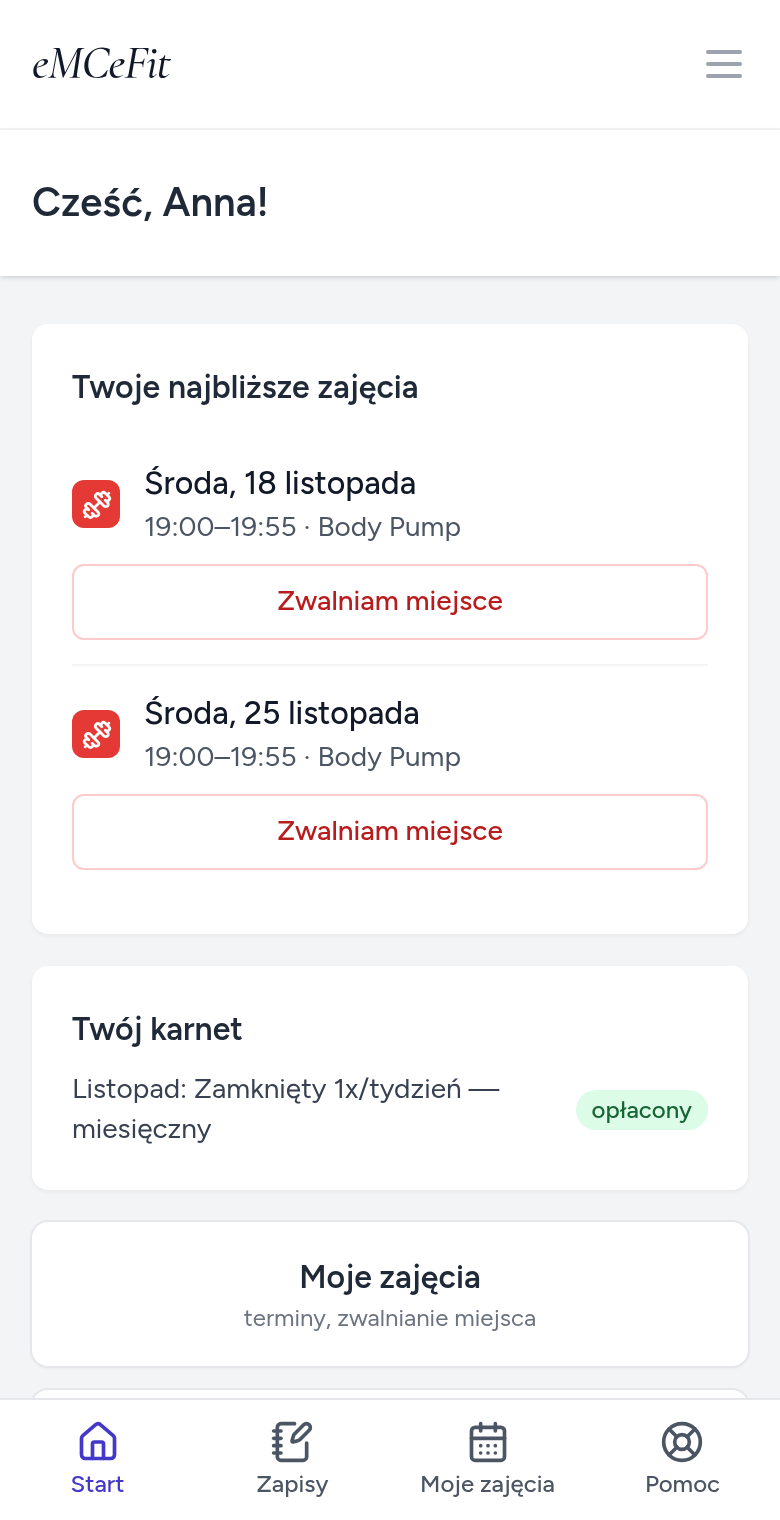
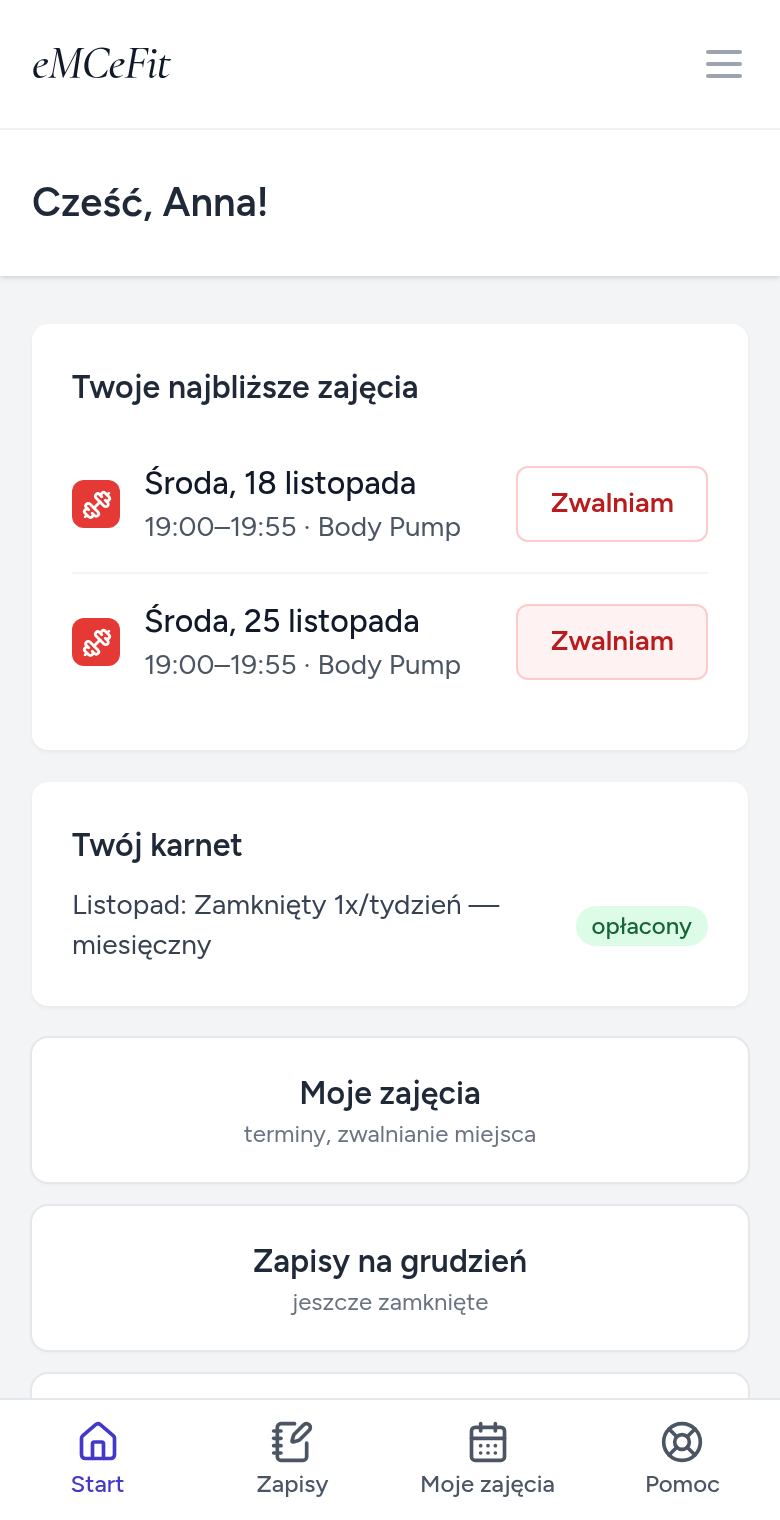
Przycisk „Zwalniam” w jednej linii z zajęciami (Start i Moje zajęcia)

diff --git a/resources/js/Pages/Client/MyClasses.vue b/resources/js/Pages/Client/MyClasses.vue
@@ -30,7 +30,7 @@ const changeMonth = (value) => {
     router.get(route('client.classes.index', { month: value }), {}, { preserveScroll: true });
 };
 
-const { isLateMakeup, releaseLabel, cancelReservation, leaveWaitlist } = useReleaseReservation();
+const { isLateMakeup, releaseButtonClass, releaseLabel, cancelReservation, leaveWaitlist } = useReleaseReservation();
 
 const kindLabel = { odrobienie: 'odrabiasz', otwarty: 'z karnetu otwartego' };
 
@@ -201,8 +201,11 @@ const reservationBadge = {
                                         </div>
                                         <div v-if="res.makeup_for && res.status !== 'zwolnione'" class="text-xs text-indigo-700">odrabiasz za: {{ res.makeup_for }}</div>
                                         <div v-if="res.release_note" class="text-xs text-gray-500">{{ res.release_note }}</div>
+                                        <div v-if="res.leavable" class="text-xs text-blue-700">jesteś na liście oczekujących</div>
+                                        <div v-if="res.cancellable && isLateMakeup(res)" class="text-xs text-amber-700">mniej niż godzina do zajęć — po zwolnieniu odrobienie przepada</div>
                                     </div>
                                     <span
+                                        v-if="!res.cancellable && !res.leavable"
                                         class="shrink-0 rounded-full px-2 py-0.5 text-xs font-medium"
                                         :class="res.is_past
                                             ? 'bg-gray-100 text-gray-500'
@@ -210,26 +213,24 @@ const reservationBadge = {
                                     >
                                         {{ res.is_past && res.status === 'potwierdzona' ? 'odbyte' : res.status_label }}
                                     </span>
+                                    <button
+                                        v-if="res.cancellable"
+                                        type="button"
+                                        class="shrink-0 rounded-md border px-4 py-2 text-sm font-semibold"
+                                        :class="releaseButtonClass(res)"
+                                        @click="cancelReservation(res)"
+                                    >
+                                        {{ releaseLabel(res) }}
+                                    </button>
+                                    <button
+                                        v-else-if="res.leavable"
+                                        type="button"
+                                        class="shrink-0 rounded-md border border-gray-300 px-4 py-2 text-sm font-semibold text-gray-700 hover:bg-gray-50"
+                                        @click="leaveWaitlist(res)"
+                                    >
+                                        Wypisz się
+                                    </button>
                                 </div>
-                                <button
-                                    v-if="res.cancellable"
-                                    type="button"
-                                    class="mt-2 w-full rounded-md border py-2 text-sm font-medium"
-                                    :class="isLateMakeup(res)
-                                        ? 'border-amber-300 bg-amber-50 text-amber-800 hover:bg-amber-100'
-                                        : 'border-red-200 text-red-700 hover:bg-red-50'"
-                                    @click="cancelReservation(res)"
-                                >
-                                    {{ releaseLabel(res) }}
-                                </button>
-                                <button
-                                    v-if="res.leavable"
-                                    type="button"
-                                    class="mt-2 w-full rounded-md border border-gray-300 py-2 text-sm font-medium text-gray-700 hover:bg-gray-50"
-                                    @click="leaveWaitlist(res)"
-                                >
-                                    Wypisz mnie z listy oczekujących
-                                </button>
                             </li>
                         </ul>
                     </section>

diff --git a/resources/js/Pages/Client/Dashboard.vue b/resources/js/Pages/Client/Dashboard.vue
@@ -13,7 +13,7 @@ defineProps({
     openRemaining: { type: Number, default: 0 },
 });
 
-const { isLateMakeup, releaseLabel, cancelReservation, leaveWaitlist } = useReleaseReservation();
+const { isLateMakeup, releaseButtonClass, releaseLabel, cancelReservation, leaveWaitlist } = useReleaseReservation();
 
 const statusBadge = {
     potwierdzona: 'bg-green-100 text-green-800',
@@ -71,34 +71,34 @@ const statusBadge = {
                                     <div v-if="res.makeup_for" class="text-xs text-indigo-700">
                                         odrabiasz za: {{ res.makeup_for }}
                                     </div>
+                                    <div v-if="res.leavable" class="text-xs text-blue-700">jesteś na liście oczekujących</div>
+                                    <div v-if="res.cancellable && isLateMakeup(res)" class="text-xs text-amber-700">mniej niż godzina do zajęć — po zwolnieniu odrobienie przepada</div>
                                 </div>
                                 <span
-                                    v-if="res.status !== 'potwierdzona'"
+                                    v-if="res.status !== 'potwierdzona' && !res.leavable"
                                     class="shrink-0 rounded-full px-2 py-0.5 text-xs font-medium"
                                     :class="statusBadge[res.status]"
                                 >
                                     {{ res.status_label }}
                                 </span>
+                                <button
+                                    v-if="res.cancellable"
+                                    type="button"
+                                    class="shrink-0 rounded-md border px-4 py-2 text-sm font-semibold"
+                                    :class="releaseButtonClass(res)"
+                                    @click="cancelReservation(res)"
+                                >
+                                    {{ releaseLabel(res) }}
+                                </button>
+                                <button
+                                    v-else-if="res.leavable"
+                                    type="button"
+                                    class="shrink-0 rounded-md border border-gray-300 px-4 py-2 text-sm font-semibold text-gray-700 hover:bg-gray-50"
+                                    @click="leaveWaitlist(res)"
+                                >
+                                    Wypisz się
+                                </button>
                             </div>
-                            <button
-                                v-if="res.cancellable"
-                                type="button"
-                                class="mt-2 w-full rounded-md border py-2 text-sm font-medium"
-                                :class="isLateMakeup(res)
-                                    ? 'border-amber-300 bg-amber-50 text-amber-800 hover:bg-amber-100'
-                                    : 'border-red-200 text-red-700 hover:bg-red-50'"
-                                @click="cancelReservation(res)"
-                            >
-                                {{ releaseLabel(res) }}
-                            </button>
-                            <button
-                                v-if="res.leavable"
-                                type="button"
-                                class="mt-2 w-full rounded-md border border-gray-300 py-2 text-sm font-medium text-gray-700 hover:bg-gray-50"
-                                @click="leaveWaitlist(res)"
-                            >
-                                Wypisz mnie z listy oczekujących
-                            </button>
                         </li>
                     </ul>
                     <p v-else class="mt-2 text-sm text-gray-500">Nie masz zaplanowanych zajęć.</p>

diff --git a/resources/js/Pages/HowItWorks.vue b/resources/js/Pages/HowItWorks.vue
@@ -18,7 +18,7 @@ const steps = [
     },
     {
         title: 'Twój panel',
-        text: 'Na początku widzisz najbliższe zajęcia i swój karnet. Pod każdymi zajęciami jest przycisk „Zwalniam miejsce”. Na dole ekranu masz menu: Start, Zapisy, Moje zajęcia i Pomoc.',
+        text: 'Na początku widzisz najbliższe zajęcia i swój karnet. Przy każdych zajęciach jest przycisk „Zwalniam”. Na dole ekranu masz menu: Start, Zapisy, Moje zajęcia i Pomoc.',
         img: '3-panel.png',
     },
     {
@@ -33,7 +33,7 @@ const steps = [
     },
     {
         title: 'Nie możesz przyjść?',
-        text: 'Kliknij „Zwalniam miejsce” na ekranie startowym albo w „Moich zajęciach”. Jeśli zrobisz to co najmniej godzinę przed zajęciami, możesz je odrobić w tym samym miesiącu.',
+        text: 'Kliknij „Zwalniam” na ekranie startowym albo w „Moich zajęciach”. Jeśli zrobisz to co najmniej godzinę przed zajęciami, możesz je odrobić w tym samym miesiącu.',
         img: '6-moje-zajecia.png',
     },
     {

diff --git a/resources/js/Utils/releaseReservation.js b/resources/js/Utils/releaseReservation.js
@@ -21,7 +21,12 @@ export function useReleaseReservation() {
     const isLateMakeup = (res) => res.kind === 'odrobienie' && !withinGracePeriod(res);
 
     const releaseLabel = (res) =>
-        isLateMakeup(res) ? 'Rezygnuję z odrabiania — odrobienie przepadnie' : 'Zwalniam miejsce';
+        isLateMakeup(res) ? 'Rezygnuję' : 'Zwalniam';
+
+    const releaseButtonClass = (res) =>
+        isLateMakeup(res)
+            ? 'border-amber-300 bg-amber-50 text-amber-800 hover:bg-amber-100'
+            : 'border-red-200 text-red-700 hover:bg-red-50';
 
     const cancelReservation = (res) => {
         const inGrace = withinGracePeriod(res);
@@ -57,5 +62,5 @@ export function useReleaseReservation() {
         router.patch(route('client.reservations.cancel', res.id), {}, { preserveScroll: true });
     };
 
-    return { withinGracePeriod, isLateMakeup, releaseLabel, cancelReservation, leaveWaitlist };
+    return { withinGracePeriod, isLateMakeup, releaseLabel, releaseButtonClass, cancelReservation, leaveWaitlist };
 }
